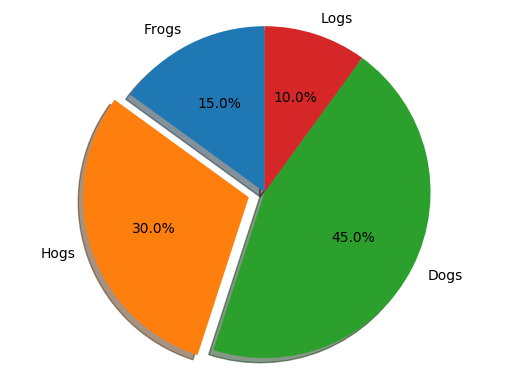
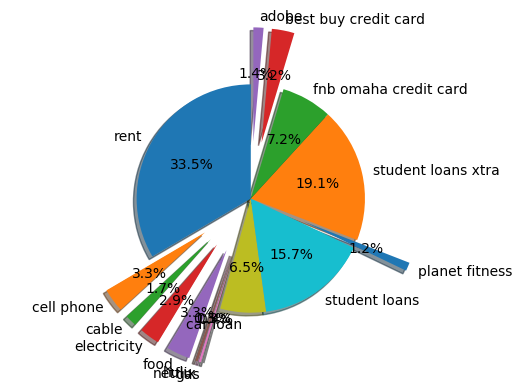
added pie chart generation

diff --git a/budget/dashboard/views.py b/budget/dashboard/views.py
@@ -2,6 +2,8 @@ from django.shortcuts import render, HttpResponseRedirect, reverse, HttpResponse
 from django.contrib.auth.decorators import login_required
 from django.views.generic import TemplateView
 
+from budget.bill.models import Bill
+
 
 class Dashboard(TemplateView):
     def get(self, request, *args, **kwargs):
@@ -14,12 +16,15 @@ class Chart(TemplateView):
     def get(self, request, *args, **kwargs):
         import matplotlib
         matplotlib.use('TkAgg')
+        matplotlib.use('Agg')
         import matplotlib.pyplot as plt
+        user = request.user
+        bills = Bill.objects.filter(owner=user.client)
+        total = sum([bill.amount for bill in bills])
 
-        labels = 'Frogs', 'Hogs', 'Dogs', 'Logs'
-        sizes = [15, 30, 45, 10]
-        explode = (0, 0.1, 0, 0)  # only "explode" the 2nd slice (i.e. 'Hogs')
-
+        sizes = [bill.amount/total for bill in bills]
+        labels = [bill.title for bill in bills]
+        explode = [0 if size >= 0.05 else 0.5 for size in sizes]
         fig1, ax1 = plt.subplots()
         ax1.pie(sizes, explode=explode, labels=labels, autopct='%1.1f%%',
                 shadow=True, startangle=90)
